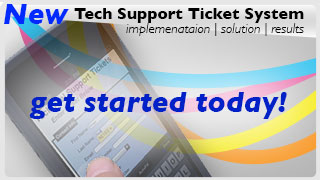
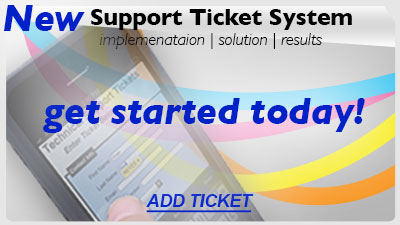
I've finished the requirements for week 1.  Will submit assignment Thursday after further review.

diff --git a/miu/week1/css/styles.css b/miu/week1/css/styles.css
@@ -16,11 +16,6 @@ div table {
 	width: 100%;
 }
 
-div table tr td {
-	background:-webkit-linear-gradient(#ffbb00 0%, #cbcbcb 100%);
-	padding: 10px  0px 10px 0px;
-}
-
 
 hgroup {
 	text-align: center;	
@@ -46,23 +41,10 @@ h3 {
 	margin: 30px auto 0px auto;
 }
 
-div h1 {
-	font-size: 150%;
-}
-
-div h2 {
-	font-size: 100%;
-	color: #2b2b2b;
-	font-style: italic;
-	text-align: center;
-
-}
-
-
 fieldset {
 	background:#c7dbec;
 	margin: 30px auto 10px auto;
-	width: 400px;
+	width: 320px;
 	border: 5px ridge black;
 }
 
@@ -114,11 +96,8 @@ input[type="range"]{
 	margin: 0px 10px 0px 10px;
 }
 
-a {
-	color: #00a117
-}
 
-textarea {
+textarea { /*for comments section */
 	width: 250px;
 	height: 50px;
 	display:block;
@@ -136,8 +115,11 @@ textarea {
 
 #featureBackground {
 	background-image: url("../img/feature_bg.jpg");
-	width: 100%;
-	height: 180px;
+	width: 380px;
+	height: 215px;
+	background-size: 100%;
+	border-radius: 4px 4px 4px 4px;
+    box-shadow: 0px -1px 0px rgba(255, 255, 255, 0.75), 0px 5px 6px rgba(0, 0, 0, 0.75);
 }
 
 #enterTicket {
@@ -149,9 +131,17 @@ textarea {
 }
 
 #compixImage {
-	padding: 7px 0px 0px 0px;
+	padding: 7px 0px 0px 15px;
 }
 
+#goButton {
+	padding: 0px 15px 0px 0px;
+}
+
+#browseCategories {
+	padding: 0px 0px 15px 0px;
+	font-weight: bold;
+}
 
 /* Classes */
 
@@ -160,24 +150,40 @@ textarea {
 	position:absolute;
 	top:0px; 
 	left:0px;
-	width: 100%;
+	width: 390px;
+	height: 3px;
+	background-size: 100%;
 }
 
 .nav {
     border-radius: 4px 4px 4px 4px;
-    box-shadow: 0 -1px 0 rgba(255, 255, 255, 0.35), 0 2px 3px rgba(0, 0, 0, 0.35);
+    box-shadow: 0px -1px 0px rgba(255, 255, 255, 0.75), 0px 5px 6px rgba(0, 0, 0, 0.75);
     clear: both;
     display: block;
     float: left;
-    width: 100%;
+    width: 380px;
 }
 
 .topRow {
     border-radius: 4px 4px 4px 4px;
-    box-shadow: 0 -1px 0 rgba(255, 255, 255, 0.35), 0 2px 3px rgba(0, 0, 0, 0.35);
+    box-shadow: 0px -1px 0px rgba(255, 255, 255, 0.75), 0px 5px 6px rgba(0, 0, 0, 0.75);
     text-align: center;
     float: left;
-    width: 100%;
+    width: 380px;
+    background: #e6e6e6;
+	
+}
+
+.navImg {
+	padding: 0px 0px 0px 320px;
+}
+
+.navLink {
+	padding: 0px 0px 0px 15px;
+}
+
+.navMenu {
+	background:-webkit-linear-gradient(#ffbb00 0%, #cbcbcb 100%);
 	
 }
 

diff --git a/miu/week1/index.html b/miu/week1/index.html
@@ -19,11 +19,14 @@
 
 <table class="topRow">
 	<tr>
-		<td>
+		<td width="75%" align="left">
 			<img src="img/compix.png" id="compixImage" />
 		</td>
-		<td>
+		<td width="20%">
 			<input type="text" value="Search Tickets" id="searchButton"/>
+		</td>
+		<td width="5%">
+		<img src="img/goButton.png" id="goButton" />
 		</td>
 	</tr>
 </table>
@@ -33,33 +36,44 @@
 	<table>
 		<tr>
 			<td>
-				<a href="#"><span>Calls</span></a>
+				<label id="browseCategories">Browse Categories:</label>
 			</td>
 		</tr>
 		<tr>
-			<td>
-				<a href="#"><span>Emails</span></a>
+			<td class="navMenu">
+				<a href="#" class="navLink"><span>Waiting for Response</span></a>							<img src="img/goButtonTrans.png" class="navImg" />
 			</td>
 		</tr>
 		<tr>
-			<td>	
-				<a href="#"><span>Online Chat</span></a>
+			<td class="navMenu">
+			<a href="#"><span class="navLink">Date</span></a>
+			<img src="img/goButtonTrans.png" class="navImg" />
+				
 			</td>
 		</tr>
 		<tr>
-			<td>
-				<a href="#"><span>Support Form</span></a>
+			<td class="navMenu">
+			<a href="#"><span class="navLink">Name</span></a>
+			<img src="img/goButtonTrans.png" class="navImg" />	
+				
 			</td>
 		</tr>
 		<tr>
-			<td>
-				<a href="#"><span>Sales Inquiry</span></a>
+			<td class="navMenu">
+			<a href="#"><span class="navLink">Contact Feelings: low to high</span></a>
+			<img src="img/goButtonTrans.png" class="navImg" />
+				
+			</td>
+		</tr>
+		<tr>
+			<td class="navMenu">
+			<a href="#"><span class="navLink">Sales Inquiries</span></a>
+			<img src="img/goButtonTrans.png" class="navImg" />
+				
 			</td>
 		</tr>
 </div>
 		<a href="supportTicket.html"><div id="featureBackground"></div></a>
-
-		<br />
 
 	</body>
 
